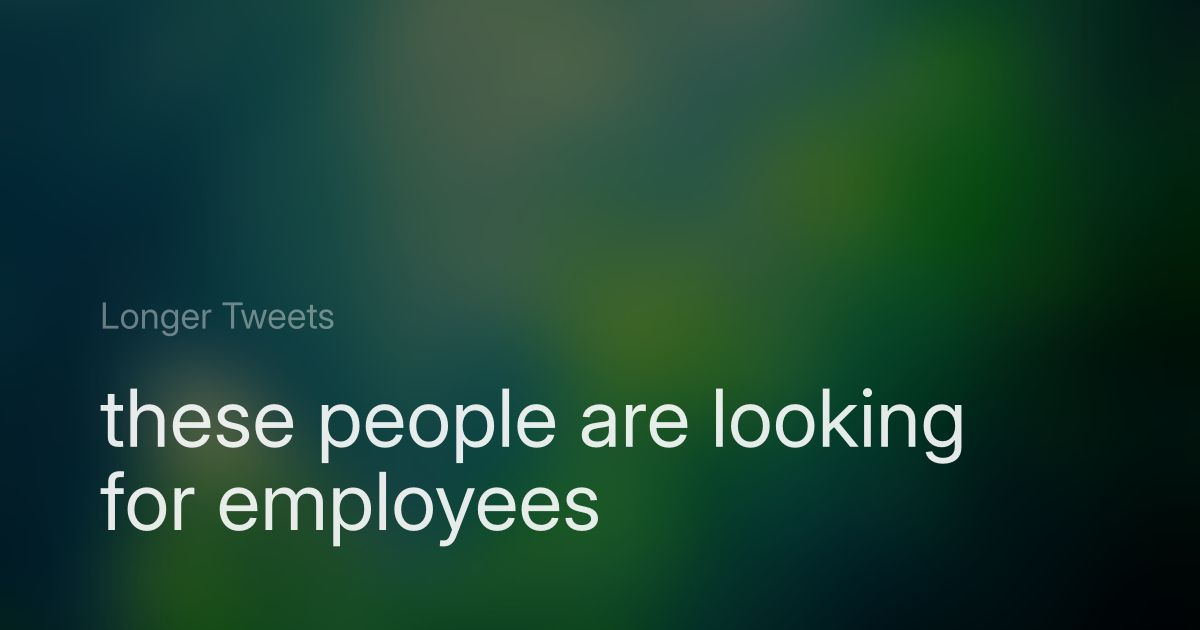
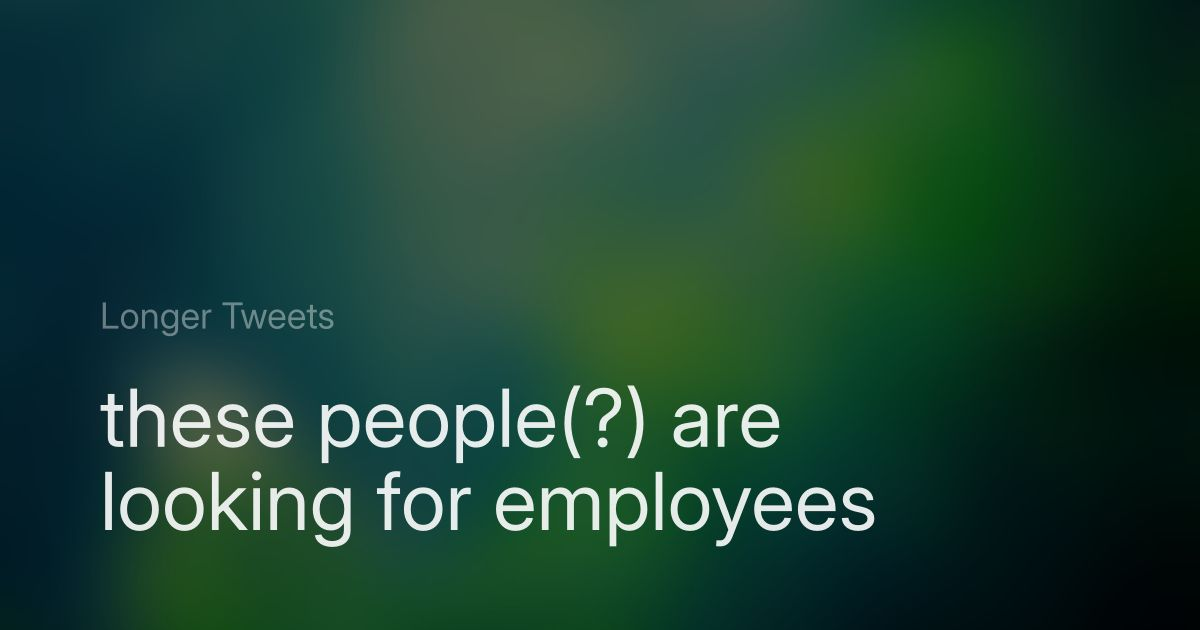
but are they really

Changed region(s): [[0.0617, 0.7238, 0.74, 0.8746], [0.4625, 0.6032, 0.8017, 0.754]]

diff --git a/_posts/2026-06-01-recruiters.md b/_posts/2026-06-01-recruiters.md
@@ -1,6 +1,6 @@
 ---
 layout: post
-title: these people are looking for employees
+title: these people(?) are looking for employees
 description: Sharing recruiter pitches for others who might need them.
 tags:
   - ai